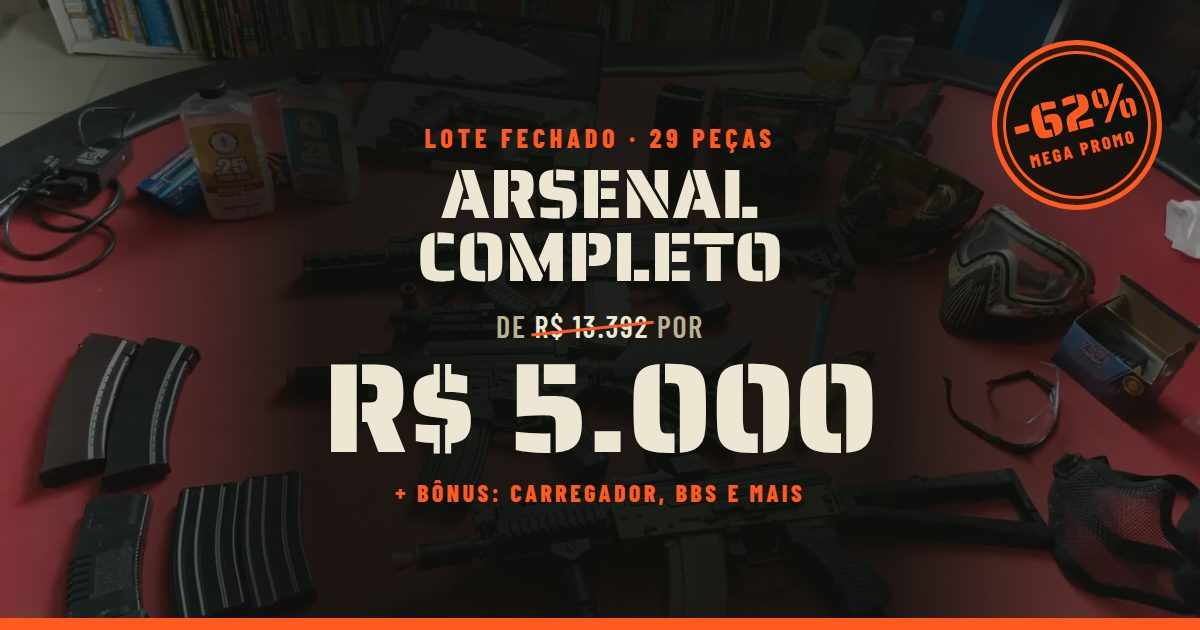
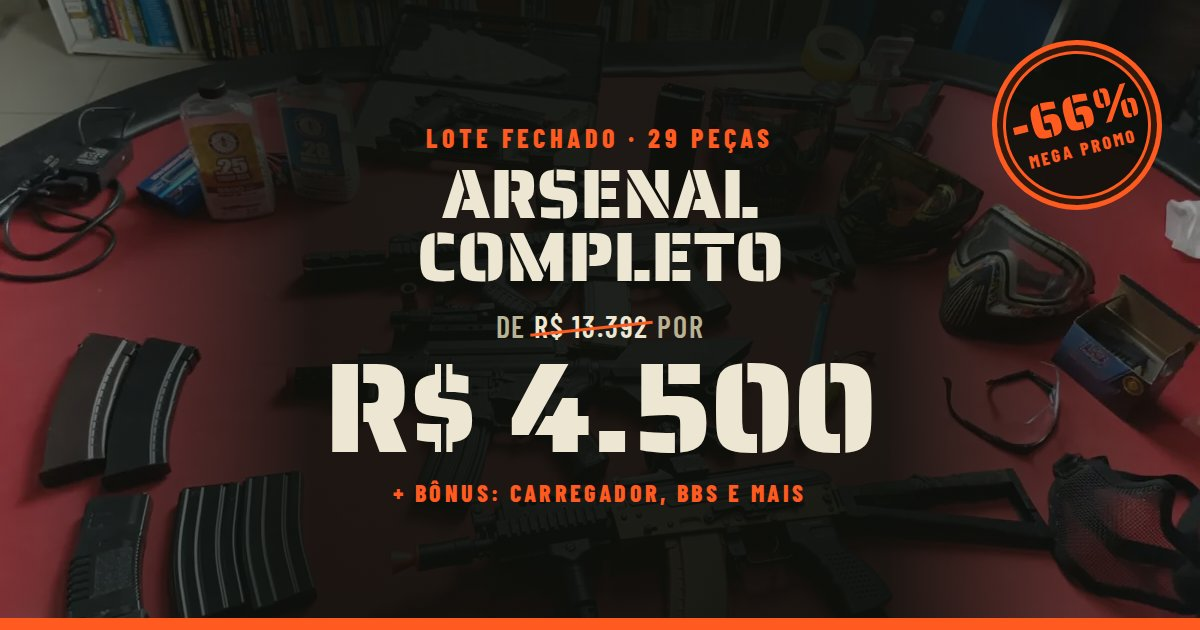
Atualiza preço do lote para R$ 4.500
Recalcula a economia (R$ 8.892) e o desconto (66%) e regenera a imagem
de preview com os novos valores.

diff --git a/index.html b/index.html
@@ -3,13 +3,13 @@
 <head>
 <meta charset="utf-8">
 <meta name="viewport" content="width=device-width, initial-scale=1, viewport-fit=cover">
-<title>Lote Airsoft Completo — R$ 5.000</title>
-<meta name="description" content="Lote fechado com 29 peças: AK47 Full Metal, AR15 Neptune 8, ARES Amoeba, pistola John Wick, máscaras, coletes, red dots, baterias e carregador iMax B6 de bônus. Avaliado em R$ 13.392 — sai por R$ 5.000.">
+<title>Lote Airsoft Completo — R$ 4.500</title>
+<meta name="description" content="Lote fechado com 29 peças: AK47 Full Metal, AR15 Neptune 8, ARES Amoeba, pistola John Wick, máscaras, coletes, red dots, baterias e carregador iMax B6 de bônus. Avaliado em R$ 13.392 — sai por R$ 4.500.">
 <meta name="theme-color" content="#0d0f0b">
 
 <!-- Preview do link no WhatsApp (og:image precisa ser endereço absoluto) -->
 <meta property="og:type" content="website">
-<meta property="og:title" content="🔥 Lote Airsoft Completo — de R$ 13.392 por R$ 5.000">
+<meta property="og:title" content="🔥 Lote Airsoft Completo — de R$ 13.392 por R$ 4.500">
 <meta property="og:description" content="29 peças: AK47 Full Metal, AR15 Neptune 8, ARES Amoeba, pistola John Wick, 3 máscaras, 3 coletes, red dots, baterias + bônus: carregador iMax B6, BBs, luvas e calça. Só vendo o lote completo.">
 <meta property="og:image" content="https://alanlengruber.github.io/lote-airsoft/img/og-promo.jpg">
 <meta property="og:image:type" content="image/jpeg">
@@ -316,10 +316,10 @@
     </div>
     <div>
       <div class="price">
-        <div class="stamp"><div>-62%<small>MEGA PROMO</small></div></div>
+        <div class="stamp"><div>-66%<small>MEGA PROMO</small></div></div>
         <div class="was">Avaliado em <s>R$ 13.392</s></div>
-        <div class="now"><small>por</small><strong>R$ 5.000</strong></div>
-        <div class="save">Você economiza R$ 8.392</div>
+        <div class="now"><small>por</small><strong>R$ 4.500</strong></div>
+        <div class="save">Você economiza R$ 8.892</div>
       </div>
       <a class="btn js-wa" href="#" target="_blank" rel="noopener">
         <svg viewBox="0 0 32 32" aria-hidden="true"><path fill="currentColor" d="M16 3C8.8 3 3 8.7 3 15.8c0 2.5.7 4.9 2 7L3 29l6.4-2c2 1.1 4.3 1.7 6.6 1.7 7.2 0 13-5.7 13-12.8S23.2 3 16 3Zm0 23.4c-2.1 0-4.1-.6-5.9-1.7l-.4-.3-3.8 1.2 1.2-3.7-.3-.4a10.4 10.4 0 0 1-1.6-5.6C5.2 10 10 5.3 16 5.3S26.8 10 26.8 15.8 22 26.4 16 26.4Zm5.9-7.8c-.3-.2-1.9-1-2.2-1-.3-.1-.5-.2-.7.1l-1 1.2c-.2.2-.4.3-.7.1-.3-.2-1.4-.5-2.6-1.6-1-.9-1.6-1.9-1.8-2.2-.2-.3 0-.5.1-.6l.5-.6.3-.5c.1-.2 0-.4 0-.6l-1-2.4c-.3-.6-.5-.5-.7-.5h-.6c-.2 0-.6.1-.9.4-.3.3-1.2 1.1-1.2 2.7s1.2 3.2 1.4 3.4c.2.2 2.4 3.6 5.7 5 .8.3 1.4.5 1.9.7.8.2 1.5.2 2.1.1.6-.1 1.9-.8 2.2-1.5.3-.7.3-1.4.2-1.5-.1-.2-.3-.3-.6-.4Z"/></svg>
@@ -332,8 +332,8 @@
 
 <div class="ticker" aria-hidden="true">
   <div>
-    LOTE FECHADO <b>✕</b> R$ 5.000 <b>✕</b> 29 PEÇAS <b>✕</b> NÃO SEPARO <b>✕</b> MEGA PROMOÇÃO <b>✕</b> 62% OFF <b>✕</b> + BÔNUS <b>✕</b>
-    LOTE FECHADO <b>✕</b> R$ 5.000 <b>✕</b> 29 PEÇAS <b>✕</b> NÃO SEPARO <b>✕</b> MEGA PROMOÇÃO <b>✕</b> 62% OFF <b>✕</b> + BÔNUS <b>✕</b>
+    LOTE FECHADO <b>✕</b> R$ 4.500 <b>✕</b> 29 PEÇAS <b>✕</b> NÃO SEPARO <b>✕</b> MEGA PROMOÇÃO <b>✕</b> 66% OFF <b>✕</b> + BÔNUS <b>✕</b>
+    LOTE FECHADO <b>✕</b> R$ 4.500 <b>✕</b> 29 PEÇAS <b>✕</b> NÃO SEPARO <b>✕</b> MEGA PROMOÇÃO <b>✕</b> 66% OFF <b>✕</b> + BÔNUS <b>✕</b>
   </div>
 </div>
 
@@ -452,8 +452,8 @@
 
       <div class="totals">
         <div class="row old"><span class="name">Valor somando tudo</span><span class="dots"></span><span class="val">R$ 13.392,00</span></div>
-        <div class="row big"><span class="name">Lote completo</span><span class="dots"></span><span class="val">R$ 5.000</span></div>
-        <div class="row gain"><span class="name">Sua economia</span><span class="dots"></span><span class="val">R$ 8.392</span></div>
+        <div class="row big"><span class="name">Lote completo</span><span class="dots"></span><span class="val">R$ 4.500</span></div>
+        <div class="row gain"><span class="name">Sua economia</span><span class="dots"></span><span class="val">R$ 8.892</span></div>
       </div>
     </div>
   </div>
@@ -486,7 +486,7 @@
 <!-- ============ CTA FINAL ============ -->
 <section class="final">
   <div class="wrap">
-    <h2 class="rv">Tudo isso por<br><em>R$ 5.000</em></h2>
+    <h2 class="rv">Tudo isso por<br><em>R$ 4.500</em></h2>
     <p class="rv">Menos do que a AK47 e a AR15 custariam juntas, e ainda leva carregador, BBs e mais de bônus. Lote único, sem reposição.</p>
     <a class="btn js-wa rv" href="#" target="_blank" rel="noopener">
       <svg viewBox="0 0 32 32" aria-hidden="true"><path fill="currentColor" d="M16 3C8.8 3 3 8.7 3 15.8c0 2.5.7 4.9 2 7L3 29l6.4-2c2 1.1 4.3 1.7 6.6 1.7 7.2 0 13-5.7 13-12.8S23.2 3 16 3Zm0 23.4c-2.1 0-4.1-.6-5.9-1.7l-.4-.3-3.8 1.2 1.2-3.7-.3-.4a10.4 10.4 0 0 1-1.6-5.6C5.2 10 10 5.3 16 5.3S26.8 10 26.8 15.8 22 26.4 16 26.4Zm5.9-7.8c-.3-.2-1.9-1-2.2-1-.3-.1-.5-.2-.7.1l-1 1.2c-.2.2-.4.3-.7.1-.3-.2-1.4-.5-2.6-1.6-1-.9-1.6-1.9-1.8-2.2-.2-.3 0-.5.1-.6l.5-.6.3-.5c.1-.2 0-.4 0-.6l-1-2.4c-.3-.6-.5-.5-.7-.5h-.6c-.2 0-.6.1-.9.4-.3.3-1.2 1.1-1.2 2.7s1.2 3.2 1.4 3.4c.2.2 2.4 3.6 5.7 5 .8.3 1.4.5 1.9.7.8.2 1.5.2 2.1.1.6-.1 1.9-.8 2.2-1.5.3-.7.3-1.4.2-1.5-.1-.2-.3-.3-.6-.4Z"/></svg>
@@ -500,7 +500,7 @@
 
 <!-- barra fixa (mobile) -->
 <div class="bar" id="bar">
-  <div class="p"><small>Lote completo</small><strong>R$ 5.000</strong></div>
+  <div class="p"><small>Lote completo</small><strong>R$ 4.500</strong></div>
   <a class="btn js-wa" href="#" target="_blank" rel="noopener">
     <svg viewBox="0 0 32 32" aria-hidden="true"><path fill="currentColor" d="M16 3C8.8 3 3 8.7 3 15.8c0 2.5.7 4.9 2 7L3 29l6.4-2c2 1.1 4.3 1.7 6.6 1.7 7.2 0 13-5.7 13-12.8S23.2 3 16 3Zm0 23.4c-2.1 0-4.1-.6-5.9-1.7l-.4-.3-3.8 1.2 1.2-3.7-.3-.4a10.4 10.4 0 0 1-1.6-5.6C5.2 10 10 5.3 16 5.3S26.8 10 26.8 15.8 22 26.4 16 26.4Zm5.9-7.8c-.3-.2-1.9-1-2.2-1-.3-.1-.5-.2-.7.1l-1 1.2c-.2.2-.4.3-.7.1-.3-.2-1.4-.5-2.6-1.6-1-.9-1.6-1.9-1.8-2.2-.2-.3 0-.5.1-.6l.5-.6.3-.5c.1-.2 0-.4 0-.6l-1-2.4c-.3-.6-.5-.5-.7-.5h-.6c-.2 0-.6.1-.9.4-.3.3-1.2 1.1-1.2 2.7s1.2 3.2 1.4 3.4c.2.2 2.4 3.6 5.7 5 .8.3 1.4.5 1.9.7.8.2 1.5.2 2.1.1.6-.1 1.9-.8 2.2-1.5.3-.7.3-1.4.2-1.5-.1-.2-.3-.3-.6-.4Z"/></svg>
     Quero o lote
@@ -521,7 +521,7 @@
 <script>
   /* ====== CONFIGURE AQUI ====== */
   const WHATSAPP = "5513981316565"; // DDI + DDD + número, só dígitos. Ex: 5511987654321
-  const MENSAGEM = "Olá! Vi a página e tenho interesse no lote completo de airsoft por R$ 5.000. Ainda está disponível?";
+  const MENSAGEM = "Olá! Vi a página e tenho interesse no lote completo de airsoft por R$ 4.500. Ainda está disponível?";
   /* ============================ */
 
   const waUrl = "https://wa.me/" + WHATSAPP + "?text=" + encodeURIComponent(MENSAGEM);
